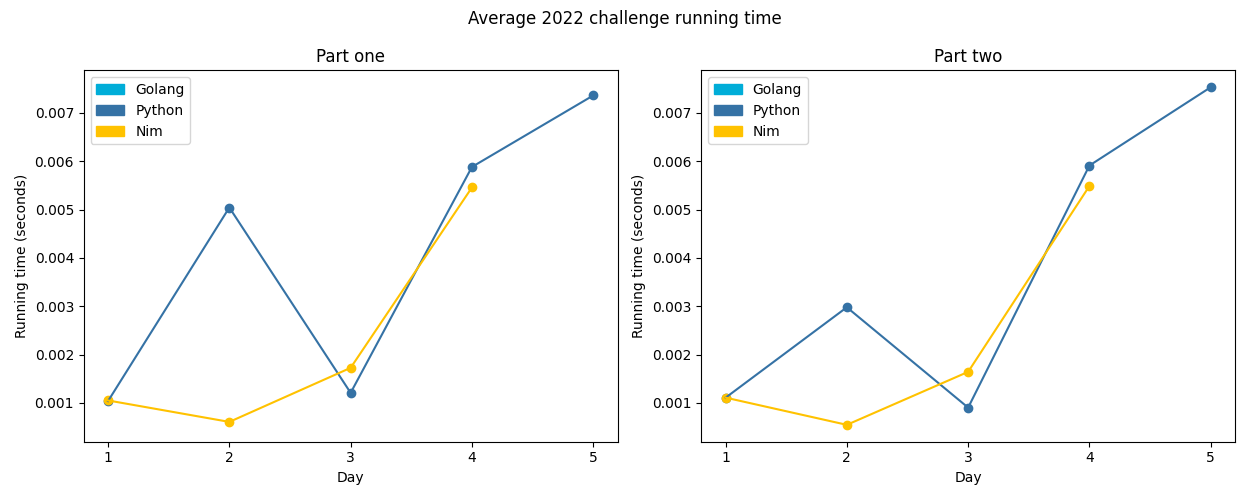
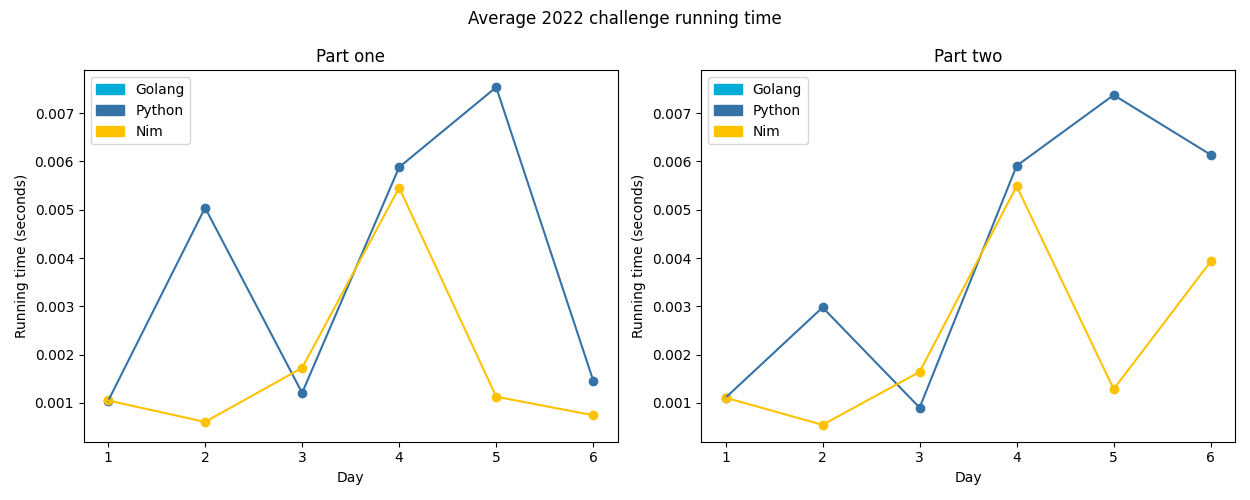
2022-06 py,nim & 2022-05 nim

diff --git a/challenges/2022/06-tuningTrouble/py/__init__.py b/challenges/2022/06-tuningTrouble/py/__init__.py
@@ -1,0 +1,19 @@
+from typing import *
+from aocpy import BaseChallenge
+
+
+def find_unique_sequence(instr: str, length: int) -> int:
+    for i in range(len(instr) - length):
+        if len(set(instr[i : i + length])) == length:
+            return i + length
+    raise ValueError("cannot solve")
+
+
+class Challenge(BaseChallenge):
+    @staticmethod
+    def one(instr: str) -> int:
+        return find_unique_sequence(instr, 4)
+
+    @staticmethod
+    def two(instr: str) -> int:
+        return find_unique_sequence(instr, 14)

diff --git a/challenges/2022/README.md b/challenges/2022/README.md
@@ -14,7 +14,8 @@ Solutions to the [2022 Advent of Code](https://adventofcode.com/2022).
 | 02 - Rock Paper Scissors            | ★ ★                | [Python](02-rockPaperScissors/py), [Nim](02-rockPaperScissors/nim) | Programmatically playing Rock Paper Scissors |
 | 03 - Rucksack Reorganization        | ★ ★                | [Python](03-rucksackReorganization/py), [Nim](03-rucksackReorganization/nim) | Sets and intersections |
 | 04 - Camp Cleanup                   | ★ ★                | [Python](04-campCleanup/py), [Nim](04-campCleanup/nim) | More sets and more intersections! |
-| 05 - Supply Stacks                  | ★ ★                | [Python](05-supplyStacks/py) | Believe it or not, this one involved stacks. |
+| 05 - Supply Stacks                  | ★ ★                | [Python](05-supplyStacks/py), [Nim](05-supplyStacks/nim) | Believe it or not, this one involved stacks. |
+| 05 - Tuning Trouble                  | ★ ★                | [Python](06-tuningTrouble/py), [Nim](06-tuningTrouble/nim) | This is the first year I've not repeatedly forgotten about the existence of sets, and it's coming in quite handy. |
 
 <!-- PARSE END -->
 

diff --git a/challenges/2022/06-tuningTrouble/README.md b/challenges/2022/06-tuningTrouble/README.md
@@ -1,0 +1,1 @@
+# [Day 6: Tuning Trouble](https://adventofcode.com/2022/day/6)
